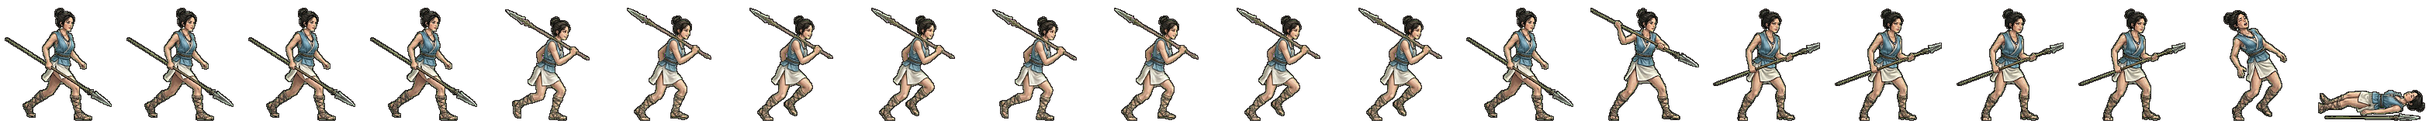
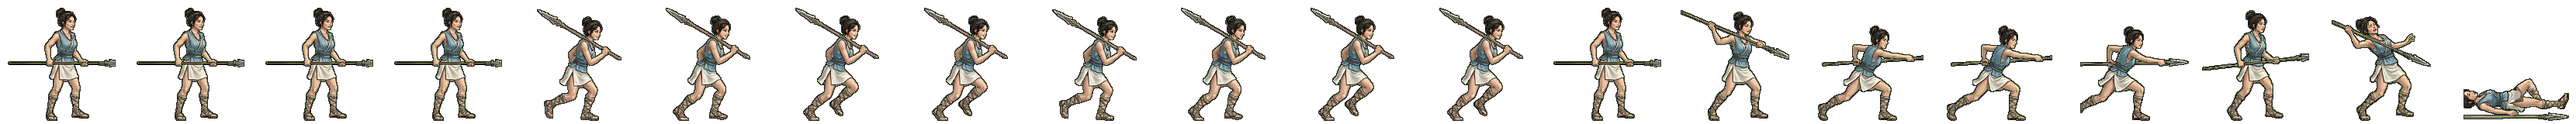
전투 띠 새로: mulsae 동작 띠 다시 — 형이 구움 (굽기 꾸러미 · 검수 1·3번) (형 11-08)
Claude-Session: https://claude.ai/code/session_01TRiuNAG8xSjdmjCFpc8Rd5

diff --git a/src/ui/realm/battle-strikes.ts b/src/ui/realm/battle-strikes.ts
@@ -143,7 +143,7 @@ const CONTACT: Readonly<Record<string, [number, number, number]>> = {
   'gen-haebi': [14, 0.87, 0.53], 'gen-heo': [14, 0.94, 0.46], 'gen-hyeokgeose': [14, 0.83, 0.94],
   'gen-hyeopbo': [14, .93, .21], 'gen-malgalgi': [14, 0.88, 0.28], 'gen-mari': [14, .98, .47],
   'gen-oi': [14, .98, .48], 'gen-onjo': [14, 0.83, 0.93], 'gen-soebi': [14, 0.80, 0.95],
-  'gen-soseono': [14, 0.92, 0.31], 'gen-maryeo': [14, 0.91, 0.79], 'gen-horselord': [14, 0.89, 0.25], 'gen-olddaeso': [14, 0.93, 0.91], 'gen-maro': [14, 0.97, 0.49], 'gen-gwaeyu': [14, 0.98, 0.71], 'gen-daemusin': [14, 0.91, 0.38], 'gen-tahae': [14, 0.91, 0.74], 'gen-ocheongan': [14, 0.82, 0.49], 'gen-yusugan': [14, 0.95, 0.70], 'gen-odogan': [14, 0.96, 0.33], 'gen-pidogan': [14, 0.94, 0.75], 'gen-yeodogan': [14, 0.93, 0.57], 'gen-adogan': [14, 0.95, 0.41], 'gen-musoe': [14, 0.94, 0.39], 'gen-suro': [14, 0.82, 0.53], 'gen-waechief': [14, 0.95, 0.68], 'gen-hojin': [14, 0.97, 0.64], 'gen-jita': [14, 0.94, 0.34], 'gen-guryema': [14, 0.89, 0.28], 'gen-jibaekho': [14, 0.97, 0.33], 'gen-sobeol': [14, 0.95, 0.33], 'gen-alpyeong': [14, 0.95, 0.54], 'gen-hogong': [14, 0.98, 0.27], 'gen-geumbawi': [14, 0.91, 0.92], 'gen-keundol': [14, 0.90, 0.68], 'gen-jinha': [14, 0.76, 0.93], 'gen-duman': [14, 0.97, 0.39], 'gen-gomok': [14, 0.94, 0.57], 'gen-hneoul': [14, 0.92, 0.27], 'gen-tneoul': [14, 0.84, 0.57], 'gen-sdallae': [14, 0.89, 0.29], 'gen-yucheongan': [14, 0.97, 0.64], 'gen-sincheongan': [14, 0.91, 0.71], 'gen-singwigan': [14, 0.98, 0.21], 'gen-mdallae': [14, 0.98, 0.29], 'gen-mulbeom': [14, 0.95, 0.39], 'gen-beomi': [14, 0.88, 0.43], 'gen-danbi': [14, 0.90, 0.30], 'gen-mulsae': [14, 0.93, 0.36], 'gen-darae': [14, 0.89, 0.29], 'gen-mir': [14, 0.91, 0.33], 'gen-wan': [14, 0.94, 0.30], 'gen-gom': [14, 0.94, 0.74], 'gen-sagong': [14, 0.79, 0.96], 'gen-halla': [14, 0.86, 0.46], 'gen-areum': [14, 0.86, 0.65], 'gen-dokmudeom': [14, 0.95, 0.28], 'gen-beom': [14, 0.98, 0.28], 'gen-baram': [14, 0.96, 0.24], 'gen-goeun': [14, 0.95, 0.66], 'gen-byeol': [14, 0.76, 0.96], 'gen-sinneoul': [14, 0.95, 0.33], 'gen-haesol': [14, 0.95, 0.39], 'gen-odi': [14, 0.95, 0.37], 'gen-irang': [14, 0.86, 0.30], 'gen-dalli': [14, 0.89, 0.32], 'gen-bakdal': [14, 0.94, 0.27], 'gen-noeul': [14, 0.88, 0.27], 'gen-maehwa': [14, 0.90, 0.31], 'gen-gaon': [14, 0.98, 0.48], 'gen-eomni': [14, 0.96, 0.42], 'gen-nuri': [14, 0.98, 0.42], 'gen-bira': [14, 0.88, 0.42], 'gen-gureum': [14, 0.98, 0.42],
+  'gen-soseono': [14, 0.92, 0.31], 'gen-maryeo': [14, 0.91, 0.79], 'gen-horselord': [14, 0.89, 0.25], 'gen-olddaeso': [14, 0.93, 0.91], 'gen-maro': [14, 0.97, 0.49], 'gen-gwaeyu': [14, 0.98, 0.71], 'gen-daemusin': [14, 0.91, 0.38], 'gen-tahae': [14, 0.91, 0.74], 'gen-ocheongan': [14, 0.82, 0.49], 'gen-yusugan': [14, 0.95, 0.70], 'gen-odogan': [14, 0.96, 0.33], 'gen-pidogan': [14, 0.94, 0.75], 'gen-yeodogan': [14, 0.93, 0.57], 'gen-adogan': [14, 0.95, 0.41], 'gen-musoe': [14, 0.94, 0.39], 'gen-suro': [14, 0.82, 0.53], 'gen-waechief': [14, 0.95, 0.68], 'gen-hojin': [14, 0.97, 0.64], 'gen-jita': [14, 0.94, 0.34], 'gen-guryema': [14, 0.89, 0.28], 'gen-jibaekho': [14, 0.97, 0.33], 'gen-sobeol': [14, 0.95, 0.33], 'gen-alpyeong': [14, 0.95, 0.54], 'gen-hogong': [14, 0.98, 0.27], 'gen-geumbawi': [14, 0.91, 0.92], 'gen-keundol': [14, 0.90, 0.68], 'gen-jinha': [14, 0.76, 0.93], 'gen-duman': [14, 0.97, 0.39], 'gen-gomok': [14, 0.94, 0.57], 'gen-hneoul': [14, 0.92, 0.27], 'gen-tneoul': [14, 0.84, 0.57], 'gen-sdallae': [14, 0.89, 0.29], 'gen-yucheongan': [14, 0.97, 0.64], 'gen-sincheongan': [14, 0.91, 0.71], 'gen-singwigan': [14, 0.98, 0.21], 'gen-mdallae': [14, 0.98, 0.29], 'gen-mulbeom': [14, 0.95, 0.39], 'gen-beomi': [14, 0.88, 0.43], 'gen-danbi': [14, 0.90, 0.30], 'gen-mulsae': [14, 0.92, 0.46], 'gen-darae': [14, 0.89, 0.29], 'gen-mir': [14, 0.91, 0.33], 'gen-wan': [14, 0.94, 0.30], 'gen-gom': [14, 0.94, 0.74], 'gen-sagong': [14, 0.79, 0.96], 'gen-halla': [14, 0.86, 0.46], 'gen-areum': [14, 0.86, 0.65], 'gen-dokmudeom': [14, 0.95, 0.28], 'gen-beom': [14, 0.98, 0.28], 'gen-baram': [14, 0.96, 0.24], 'gen-goeun': [14, 0.95, 0.66], 'gen-byeol': [14, 0.76, 0.96], 'gen-sinneoul': [14, 0.95, 0.33], 'gen-haesol': [14, 0.95, 0.39], 'gen-odi': [14, 0.95, 0.37], 'gen-irang': [14, 0.86, 0.30], 'gen-dalli': [14, 0.89, 0.32], 'gen-bakdal': [14, 0.94, 0.27], 'gen-noeul': [14, 0.88, 0.27], 'gen-maehwa': [14, 0.90, 0.31], 'gen-gaon': [14, 0.98, 0.48], 'gen-eomni': [14, 0.96, 0.42], 'gen-nuri': [14, 0.98, 0.42], 'gen-bira': [14, 0.88, 0.42], 'gen-gureum': [14, 0.98, 0.42],
   'gen-biryu': [14, 0.90, 0.35], 'gen-geumha': [14, 0.94, 0.61], 'gen-geota': [14, 0.86, 0.47], 'gen-soebo': [14, 0.87, 0.57],
   'gen-gaennae': [14, 249 / 264, 47 / 160],
   'gen-budeul': [14, 266 / 280, 51 / 160],

diff --git a/src/realm/data/art.ts b/src/realm/data/art.ts
@@ -533,7 +533,7 @@ export const GEN_ANIM: Readonly<Partial<Record<string, { ar: number; body: numbe
   wan: { ar: 145 / 160, body: 0.906, bow: true }, // 11-08 초상대로 다시 (형: 「투구 쓰고 원본과 다르다」 · 제미나이 걷기 4×2 + 동작 4×2 → 20컷 · assets_src/realm/gemini/generals2) · 11-08 처음 · 완산 완(흰 깃·초록 끈 말총머리·이끼빛 짧은 저고리·맥궁 · 준비→만작→발사→피격→쓰러짐)
   mir: { ar: 142 / 160, body: 0.900, bow: true }, // 11-08 초상대로 다시 (형: 「투구 쓰고 원본과 다르다」 · 제미나이 걷기 4×2 + 동작 4×2 → 20컷 · assets_src/realm/gemini/generals2) · 11-08 처음 · 고구려 미르 동작 다시 · 걷기와 같은 옷·같은 크기 (11-09 검수)
   darae: { ar: 150 / 160, body: 0.906, bow: true }, // 11-08 초상대로 다시 (형: 「투구 쓰고 원본과 다르다」 · 제미나이 걷기 4×2 + 동작 4×2 → 20컷 · assets_src/realm/gemini/generals2) · 11-08 처음 · 부여 다래(흰 여우털 모자·털 두른 사슴 가죽 겉옷·짧은 털 치마·맥궁 · 준비→만작→발사→피격→쓰러짐)
-  mulsae: { ar: 157 / 160, body: 0.900 }, // 11-08 초상대로 다시 (형: 「투구 쓰고 원본과 다르다」 · 제미나이 걷기 4×2 + 동작 4×2 → 20컷 · assets_src/realm/gemini/generals2) · 11-08 처음 · 사로 물새 동작 다시 — 창날 달린 창을 두 손으로 앞으로 겨눈다 (창날 없는 자루 찌르기 고침 · 제미나이 u/0 · 11-09 띠 검수)
+  mulsae: { ar: 166 / 160, body: 0.900 }, // 11-08 초상대로 다시 (형: 「투구 쓰고 원본과 다르다」 · 제미나이 걷기 4×2 + 동작 4×2 → 20컷 · assets_src/realm/gemini/generals2) · 11-08 처음 · mulsae 동작 띠 다시 — 형이 구움 (굽기 꾸러미 · 검수 1·3번)
   danbi: { ar: 146 / 160, body: 0.906, bow: true }, // 11-08 초상대로 다시 (형: 「투구 쓰고 원본과 다르다」 · 제미나이 걷기 4×2 + 동작 4×2 → 20컷 · assets_src/realm/gemini/generals2) · 11-08 처음 · 사로 단비(흰 끈 말총머리·초록 테 흰 짧은 윗옷·맥궁 · 준비→만작→발사→피격→쓰러짐)
   beomi: { ar: 159 / 160, body: 0.900 }, // 11-08 초상대로 다시 (형: 「투구 쓰고 원본과 다르다」 · 제미나이 걷기 4×2 + 동작 4×2 → 20컷 · assets_src/realm/gemini/generals2) · 11-08 처음 · 진지 범이(헝클어진 짧은 머리·범 가죽 짧은 윗옷과 치마·넓은 쇠 창 찌르기 · 맨발)
   mulbeom: { ar: 165 / 160, body: 0.900 }, // 11-08 초상대로 다시 (형: 「투구 쓰고 원본과 다르다」 · 제미나이 걷기 4×2 + 동작 4×2 → 20컷 · assets_src/realm/gemini/generals2) · 11-08 처음 · mulbeom 동작 띠 다시 — 형이 구움 (굽기 꾸러미 · 검수 1·3번)
